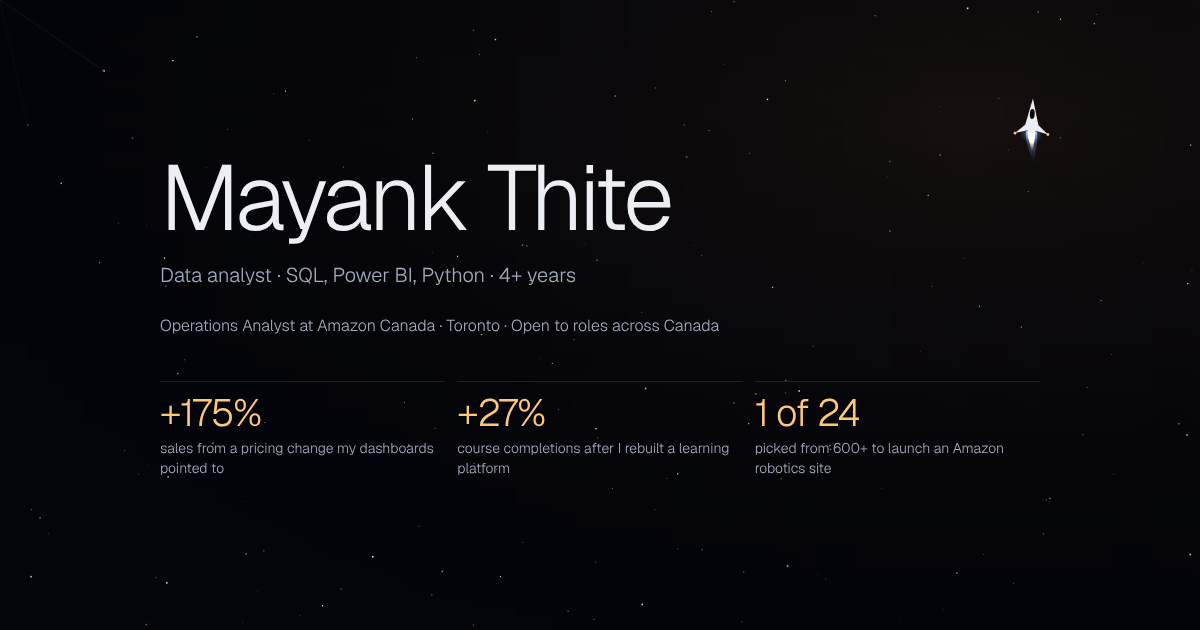
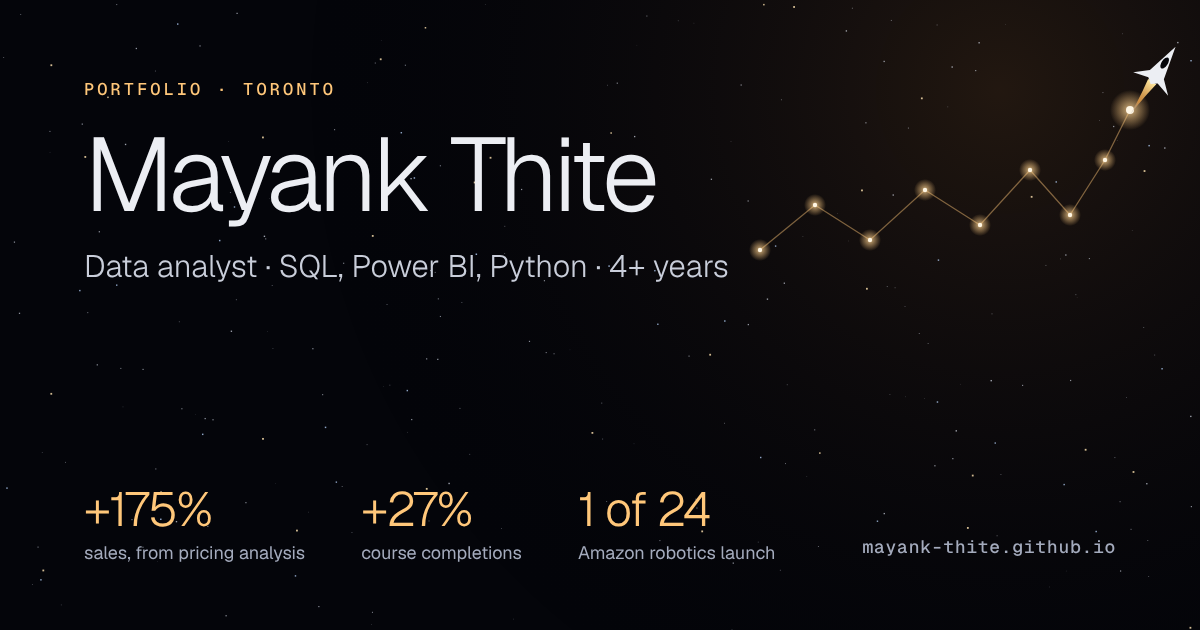
Add the quadcopter photo and a designed link preview image with full share tags

diff --git a/index.html b/index.html
@@ -11,7 +11,14 @@
     <meta property="og:description" content="SQL, Power BI and Python. Five public data projects, a 175% sales lift from pricing analysis, and robotics operations at Amazon Canada. Open to roles across Canada." />
     <meta property="og:image" content="https://mayank-thite.github.io/og-image.png" />
     <meta property="og:url" content="https://mayank-thite.github.io/" />
+    <meta property="og:site_name" content="Mayank Thite" />
+    <meta property="og:image:width" content="1200" />
+    <meta property="og:image:height" content="630" />
+    <meta property="og:image:alt" content="Mayank Thite, data analyst. SQL, Power BI, Python, 4+ years. +175% sales, +27% course completions, 1 of 24 for an Amazon robotics launch." />
     <meta name="twitter:card" content="summary_large_image" />
+    <meta name="twitter:title" content="Mayank Thite, Data Analyst" />
+    <meta name="twitter:description" content="SQL, Power BI and Python. Five public data projects, a 175% sales lift from pricing analysis, and robotics operations at Amazon Canada. Open to roles across Canada." />
+    <meta name="twitter:image" content="https://mayank-thite.github.io/og-image.png" />
     <link rel="canonical" href="https://mayank-thite.github.io/" />
     <link rel="icon" type="image/png" href="icon.png" />
     <script type="application/ld+json">{"@context":"https://schema.org","@type":"Person","name":"Mayank Thite","jobTitle":"Data Analyst","address":{"@type":"PostalAddress","addressLocality":"Toronto","addressRegion":"ON","addressCountry":"CA"},"email":"mailto:mayankthite.ca@gmail.com","url":"https://mayank-thite.github.io/","sameAs":["https://www.linkedin.com/in/mayank-thite","https://github.com/Mayank-thite"],"knowsAbout":["SQL","Power BI","Python","Apache Spark","PostgreSQL","dbt","ETL"]}</script>
